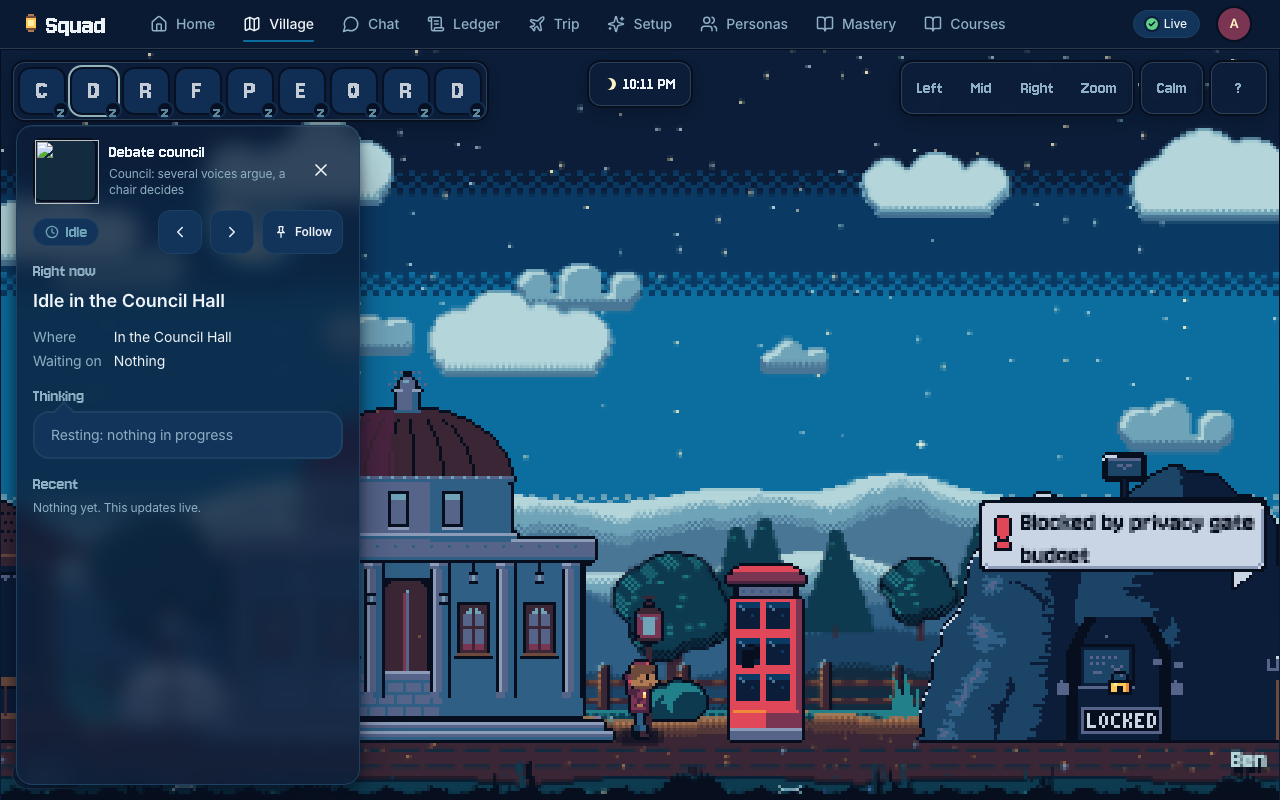
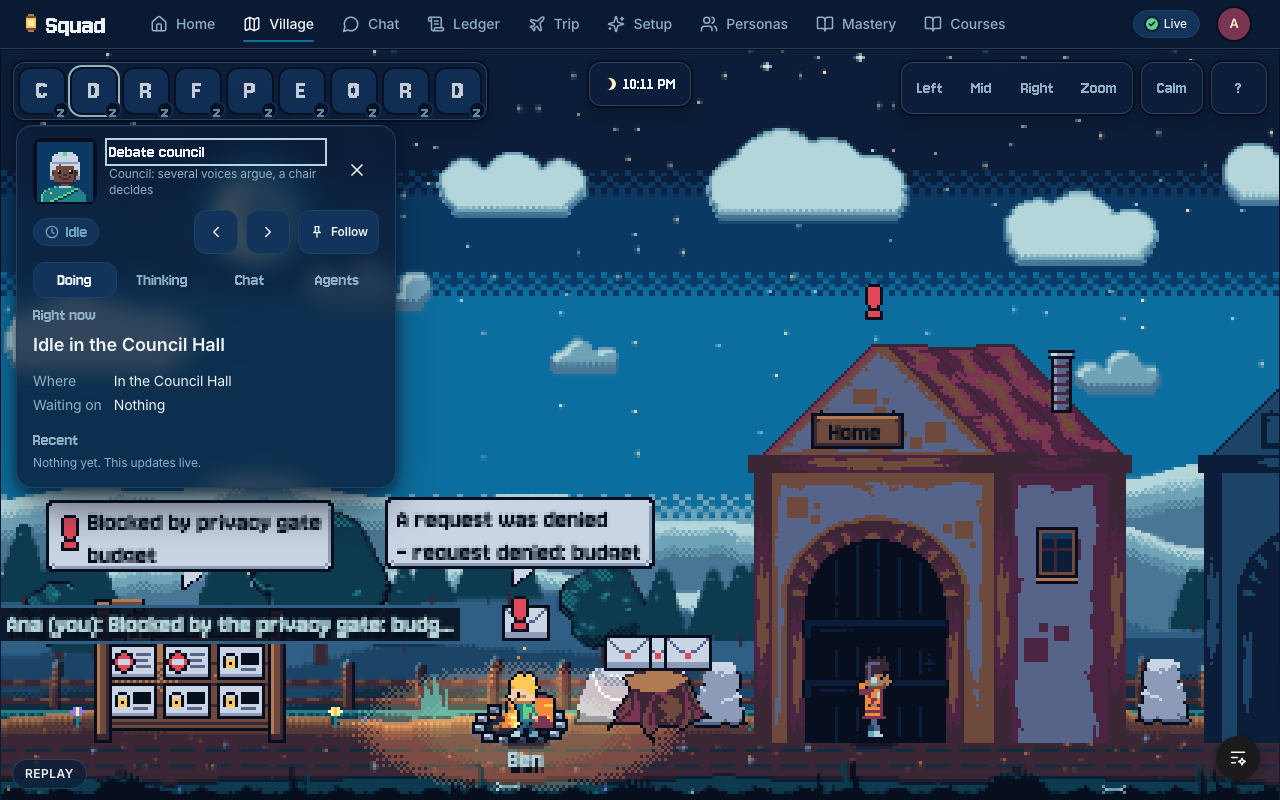
inspector: keyboard focus into panel, hover tag plate, final shots

diff --git a/packages/web/src/overlays/inspector/InspectorPanel.tsx b/packages/web/src/overlays/inspector/InspectorPanel.tsx
@@ -84,21 +84,21 @@ export function InspectorPanel({
     return () => document.removeEventListener('keydown', onKey, true);
   }, [open, store]);
 
-  // Opened from the keyboard (focus is on a chip, not the stage or body): move focus to the panel title.
+  // Opened from the keyboard (a focus-visible HUD chip had focus): move focus to the panel title once it is mounted.
   const openedId = view?.id;
+  const wantFocus = useRef(false);
   useEffect(() => {
     if (!openedId) return;
     const a = document.activeElement as HTMLElement | null;
-    if (
-      a &&
-      root.current &&
-      !root.current.contains(a) &&
-      a.matches(':focus-visible') &&
-      a.closest('.sqv-hud')
-    ) {
+    wantFocus.current =
+      !!a && !root.current?.contains(a) && a.matches(':focus-visible') && !!a.closest('.sqv-hud');
+  }, [openedId]);
+  useEffect(() => {
+    if (wantFocus.current && root.current) {
+      wantFocus.current = false;
       root.current.querySelector<HTMLElement>('[data-autofocus]')?.focus({ preventScroll: true });
     }
-  }, [openedId]);
+  });
 
   if (!mounted || !v) return null;
   const go = (dir: 1 | -1) => {

diff --git a/packages/village/src/inspector/module.ts b/packages/village/src/inspector/module.ts
@@ -166,6 +166,20 @@ export function createInspectorView(ctx: VillageContext, store: InspectorStore):
           cam.scrollX + cam.width - 2 - tag.width,
         );
         tag.setPosition(snap(x), snap(hover.sprite.getBounds().y - tag.height - 3));
+        gfx.fillStyle(COLOR.ink, 0.88);
+        gfx.fillRect(
+          snap(tag.x) - 3,
+          snap(tag.y) - 2,
+          Math.ceil(tag.width) + 6,
+          Math.ceil(tag.height) + 4,
+        );
+        gfx.lineStyle(1, COLOR.hillMid, 1);
+        gfx.strokeRect(
+          snap(tag.x) - 2.5,
+          snap(tag.y) - 1.5,
+          Math.ceil(tag.width) + 5,
+          Math.ceil(tag.height) + 3,
+        );
       } else tag.setVisible(false);
       // follow: ease the camera toward the selected character (whole pixels, no zoom change)
       if (store.follow && selSprite && now - followAt > FOLLOW_EVERY_MS) {
